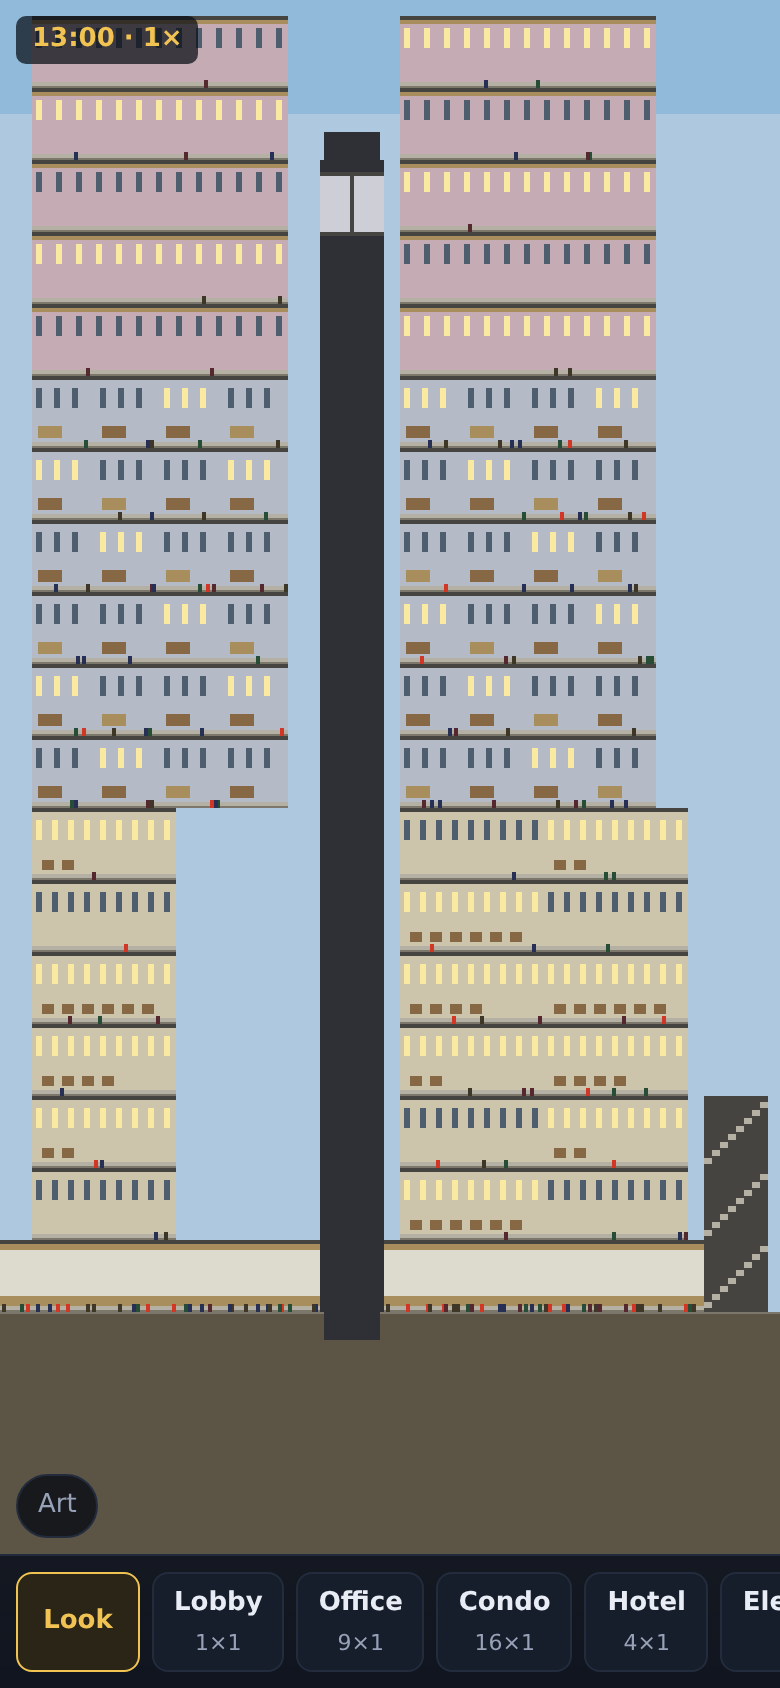
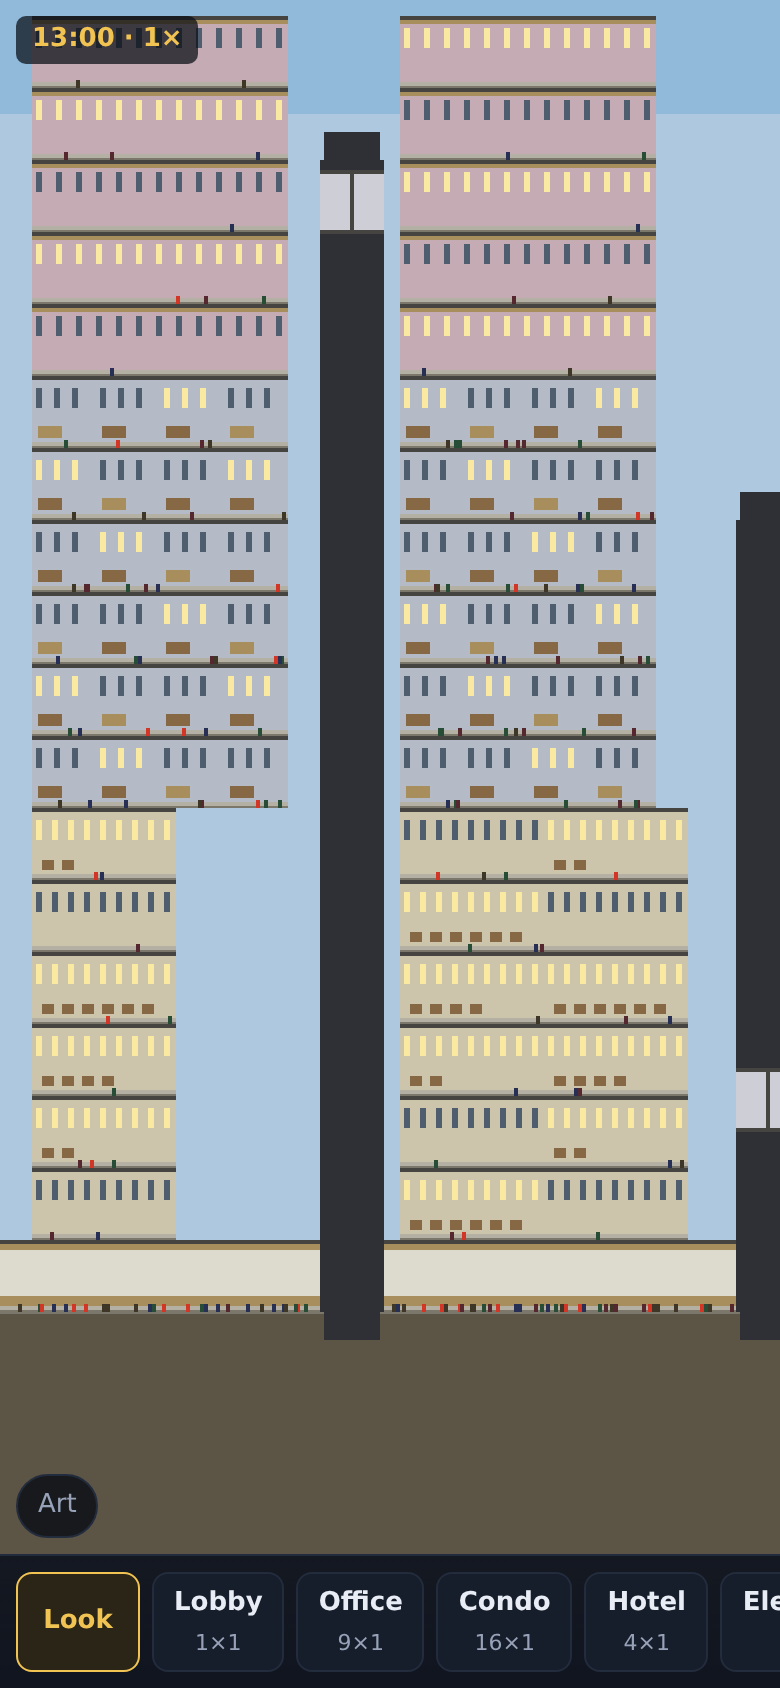
The lobby was never the lobby — it is the city
0x89e8 sits in the documented lobby range, so it was mapped as the
lobby. Looking at it settles the matter: 140 cells of street-level
buildings, brick frontages, trees, a park and a flag. It is the panorama
SimTower draws along the ground on either side of the tower, which is
exactly why our ground floor rendered as a parade of shopfronts.

So it becomes the skyline, drawn behind the tower and indexed by
position so the panorama runs across rather than one building repeating.
The placeholder art gets a generated town too — eight building heights
cycled — so both modes stand the tower in a street instead of on bare
ground.

The demo tower's frontage narrows to 70 of the 96 segments to suit. A
lobby stretched across every segment paves over the streetscape it is
supposed to stand in, which is what was hiding the town even after it
was being drawn.

Stairs and escalators are confirmed by eye and both gain transparency:
seven 64x24 frames of a tan diagonal flight with figures climbing, and
eight 64x36 frames with a red handrail and riders. Eight segments each,
as the arithmetic suggested.

The real lobby is still unidentified — 0x8a28 and 0x8a68 are the next
candidates — so the ground floor draws as a plain band rather than as
the wrong art. That band now uses the atlas's own dark index; INK.wall
is a placeholder-palette number and means nothing under the game's.

Claude-Session: https://claude.ai/code/session_011ej4SEqe3EDyyAxnu4d6fi

diff --git a/vertical-empire/src/render/scene.ts b/vertical-empire/src/render/scene.ts
@@ -71,6 +71,7 @@ function drawBackdrop(target: Framebuffer, atlas: Atlas, camera: Camera, groundY
   }
 
   const horizon = Math.round(groundY - camera.y);
+  drawSkyline(target, atlas, camera, groundY);
   if (horizon >= target.height) return;
 
   const top = Math.max(0, horizon);
@@ -83,6 +84,35 @@ function drawBackdrop(target: Framebuffer, atlas: Atlas, camera: Camera, groundY
   // One line where the tower meets the ground, drawn once rather than by every
   // tile — a lip inside the tile would stripe the whole basement.
   if (horizon >= 0) target.fillRect(0, horizon, target.width, 1, INK.slabLip);
+}
+
+/**
+ * The city at street level.
+ *
+ * SimTower stands its tower in a town: a long panorama of low buildings, brick
+ * frontages, trees and a park runs along the ground on either side. It is
+ * stored as a strip of 8px cells, so a segment of it is drawn per segment of
+ * the lot, indexed by position — the panorama runs across rather than the same
+ * building repeating.
+ *
+ * Drawn before the tower, so anything built stands in front of it.
+ */
+function drawSkyline(target: Framebuffer, atlas: Atlas, camera: Camera, groundY: number): void {
+  const skyline = atlas.sprites.get('skyline');
+  const count = skyline?.frames.length ?? 0;
+  if (!skyline || count === 0) return;
+
+  const height = skyline.frames[0]?.height ?? 0;
+  const y = Math.round(groundY - camera.y) - height;
+  if (y > target.height || y + height < 0) return;
+
+  const first = Math.floor(camera.x / SEGMENT_WIDTH);
+  const last = Math.ceil((camera.x + camera.viewWidth) / SEGMENT_WIDTH);
+  for (let segment = first; segment <= last; segment += 1) {
+    const image = skyline.frames[((segment % count) + count) % count];
+    if (!image) continue;
+    target.blit(image, Math.round(segment * SEGMENT_WIDTH - camera.x), y, skyline.transparent);
+  }
 }
 
 function drawPlacements(target: Framebuffer, atlas: Atlas, tower: Tower, camera: Camera): void {
@@ -118,9 +148,11 @@ function drawPlacements(target: Framebuffer, atlas: Atlas, tower: Tower, camera:
           target.repeatRow(x, y + found.image.height - 1, width, FLOOR_HEIGHT - found.image.height);
         }
       } else {
-        // An atlas missing this key still gets a solid block, so a mis-mapped
-        // resource shows up as a wrong-looking tower rather than an empty one.
-        target.fillRect(x, y, kind.width * SEGMENT_WIDTH, FLOOR_HEIGHT, INK.wall);
+        // A key the atlas does not have still gets a solid band, so an
+        // unidentified facility reads as built rather than as a hole. Drawn in
+        // the atlas's own dark index: INK.wall is a fallback-palette number and
+        // means nothing under the game's palette.
+        target.fillRect(x, y, kind.width * SEGMENT_WIDTH, FLOOR_HEIGHT, atlas.shaftInk);
       }
     }
   }

diff --git a/vertical-empire/src/assets/slice.ts b/vertical-empire/src/assets/slice.ts
@@ -102,9 +102,16 @@ export const CATALOGUE: readonly SpriteSpec[] = [
   // grid, which it is.
   { key: 'sky', type: TYPE_BITMAP, ids: range(0x8351, 0x835b), mode: 'dib' },
 
-  // Lobby, in three variants: ground, sky lobby, and the high one. Cells are 32
-  // tall rather than a full floor — see `ROOM_HEIGHT`.
-  { key: 'lobby', type: TYPE_CELLS, ids: range(0x89e8, 0x89ea), mode: 'cells', cellHeight: 32, cellFrames: true },
+  // Not the lobby, as first assumed — this is the city. A hundred and forty
+  // 8x32 cells of street-level buildings, brick frontages, trees, a park and a
+  // flag: the panorama SimTower draws along the ground on either side of the
+  // tower. Mapping it to the lobby is what made the ground floor look like a
+  // parade of shopfronts, because that is exactly what it is.
+  { key: 'skyline', type: TYPE_CELLS, ids: range(0x89e8, 0x89ea), mode: 'cells', cellHeight: 32, cellFrames: true },
+
+  // The lobby itself is still unidentified. The other two cell-strip groups
+  // (0x8a28, 0x8a68) are the next candidates. Until then the ground floor draws
+  // as a plain band rather than as the wrong art.
 
   // 288x24 = four states of nine segments. Occupancy runs across: empty, then
   // progressively tenanted.
@@ -137,10 +144,11 @@ export const CATALOGUE: readonly SpriteSpec[] = [
 
   // Both of these were in the catalogue at the right IDs but as cell strips.
   // They are ordinary bitmaps, which is why they came back "not found".
-  // UNVERIFIED: the eight-segment width is inferred from the state count
-  // dividing cleanly, not from the documentation.
-  { key: 'stairs', type: TYPE_BITMAP, ids: [0x8968, 0x8969], mode: 'dib', states: 7 },
-  { key: 'escalator', type: TYPE_BITMAP, ids: [0x8aa8, 0x8ae8], mode: 'dib', states: 8 },
+  // Both confirmed by eye. Stairs: seven 64x24 frames of a tan diagonal flight,
+  // some with figures climbing. Escalator: eight 64x36 frames, red handrail,
+  // riders on some. Eight segments each, as the arithmetic suggested.
+  { key: 'stairs', type: TYPE_BITMAP, ids: [0x8968, 0x8969], mode: 'dib', states: 7, transparent: 'corner' },
+  { key: 'escalator', type: TYPE_BITMAP, ids: [0x8aa8, 0x8ae8], mode: 'dib', states: 8, transparent: 'corner' },
 
   // Nine figures across a 96x24 sheet, and — this is the part a grid cannot
   // express — they are six different widths, from five pixels to eleven, with

diff --git a/vertical-empire/src/assets/fallback.ts b/vertical-empire/src/assets/fallback.ts
@@ -52,6 +52,9 @@ export const INK = {
   personC: 19,
   personD: 20,
   personAngry: 21,
+  townWall: 26,
+  townRoof: 27,
+  townWindow: 28,
   indicatorA: 197,
   indicatorB: 198,
 } as const;
@@ -83,6 +86,9 @@ const DAY: Record<number, [number, number, number]> = {
   [INK.personC]: [40, 80, 56],
   [INK.personD]: [64, 56, 40],
   [INK.personAngry]: [220, 56, 40],
+  [INK.townWall]: [104, 112, 128],
+  [INK.townRoof]: [72, 78, 92],
+  [INK.townWindow]: [196, 206, 176],
   [INK.indicatorA]: [248, 200, 64],
   [INK.indicatorB]: [80, 60, 24],
 };
@@ -254,6 +260,27 @@ function stairs(): IndexedImage {
   return image;
 }
 
+/**
+ * One 8px slice of the town the tower stands in.
+ *
+ * The original ships a hundred and forty of these as a panorama; ours is eight
+ * heights cycled, which is enough to read as a street rather than a wall. Cells
+ * are 32 tall and sit on the ground line.
+ */
+function town(step: number): IndexedImage {
+  const height = 32;
+  const image = blank(SEGMENT_WIDTH, height, INK.transparent);
+  // A repeating but not-quite-regular skyline: eight steps that do not divide
+  // evenly into the lot, so the pattern does not visibly tile.
+  const roof = 6 + ((step * 5) % 18);
+  fill(image, 0, roof, SEGMENT_WIDTH, height - roof, INK.townWall);
+  fill(image, 0, roof, SEGMENT_WIDTH, 1, INK.townRoof);
+  for (let y = roof + 3; y < height - 3; y += 5) {
+    fill(image, 2, y, 4, 2, INK.townWindow);
+  }
+  return image;
+}
+
 function person(tint: number): IndexedImage {
   const image = blank(2, 4, INK.transparent);
   fill(image, 0, 0, 2, 4, tint);
@@ -295,6 +322,11 @@ export function buildFallbackAtlas(): Atlas {
       ],
       INK.transparent,
     ),
+  );
+
+  sprites.set(
+    'skyline',
+    sprite('skyline', [0, 1, 2, 3, 4, 5, 6, 7].map(town), INK.transparent),
   );
 
   const skyPalettes = buildSkyPalettes();

diff --git a/vertical-empire/tests/assets.test.ts b/vertical-empire/tests/assets.test.ts
@@ -272,17 +272,17 @@ describe('drawing from a real-shaped file', () => {
     );
   }
 
-  it('cuts a lobby strip into single-segment frames', async () => {
+  it('cuts the town strip into single-segment frames', async () => {
     const { buildOriginalAtlas } = await import('../src/assets/original.js');
-    const lobby = buildOriginalAtlas(mimic()).atlas.sprites.get('lobby');
+    const skyline = buildOriginalAtlas(mimic()).atlas.sprites.get('skyline');
 
     // Three resources of 140 cells each. Drawn whole at a one-segment
     // placement, a 1120px strip smears across the entire ground floor.
-    expect(lobby?.frames).toHaveLength(3 * 140);
-    expect(lobby?.frames[0]?.width).toBe(SEGMENT_WIDTH);
-    expect(lobby?.frames[0]?.height).toBe(32);
-    // Consecutive frames are consecutive cells, so a lobby reads as a frontage.
-    expect(lobby?.frames[1]?.pixels[0]).toBe(2);
+    expect(skyline?.frames).toHaveLength(3 * 140);
+    expect(skyline?.frames[0]?.width).toBe(SEGMENT_WIDTH);
+    expect(skyline?.frames[0]?.height).toBe(32);
+    // Consecutive frames are consecutive cells, so the panorama runs across.
+    expect(skyline?.frames[1]?.pixels[0]).toBe(2);
   });
 
   it('takes the see-through index from the sprite rather than assuming zero', async () => {
@@ -299,7 +299,7 @@ describe('drawing from a real-shaped file', () => {
     // Only the entries this fixture leaves out should be missing.
     const missing = problems.map((problem) => problem.key).sort();
     expect(missing).not.toContain('office');
-    expect(missing).not.toContain('lobby');
+    expect(missing).not.toContain('skyline');
     expect(atlas.skyPalettes.length).toBeGreaterThan(1);
   });
 });

diff --git a/vertical-empire/tests/render.test.ts b/vertical-empire/tests/render.test.ts
@@ -256,3 +256,42 @@ describe('lift banks', () => {
     expect(SKY.has(buffer.pixels[above * buffer.width + x] ?? 0)).toBe(false);
   });
 });
+
+describe('the town', () => {
+  it('stands the tower in a street rather than on bare ground', () => {
+    const atlas = buildFallbackAtlas();
+    const camera = new Camera();
+    camera.resize(390, 780);
+    // Looking at the ground line beyond the tower's frontage, where the
+    // street is what there is to see.
+    camera.scale = 1;
+    camera.resize(390, 780);
+    camera.centreOn(SEGMENT_WIDTH * 92, levelTop(GROUND_LEVEL));
+
+    const buffer = new Framebuffer(camera.viewWidth, camera.viewHeight);
+    drawScene(buffer, atlas, demoTower(), camera, { hour: 12, elapsed: 0 });
+
+    const ink = new Set(buffer.pixels);
+    expect(ink.has(INK.townWall)).toBe(true);
+    expect(ink.has(INK.townWindow)).toBe(true);
+  });
+
+  it('keeps the town behind anything built', () => {
+    const atlas = buildFallbackAtlas();
+    const tower = new Tower();
+    // An office right where the town would otherwise show.
+    tower.place('office', 40, GROUND_LEVEL);
+
+    const camera = new Camera();
+    camera.resize(390, 780);
+    camera.centreOn(SEGMENT_WIDTH * 44, levelTop(GROUND_LEVEL) + FLOOR_HEIGHT / 2);
+
+    const buffer = new Framebuffer(camera.viewWidth, camera.viewHeight);
+    drawScene(buffer, atlas, tower, camera, { hour: 12, elapsed: 0 });
+
+    // Mid-office, the office floor wins over the town behind it.
+    const x = Math.round(44 * SEGMENT_WIDTH - camera.x);
+    const y = Math.round(levelTop(GROUND_LEVEL) + 10 - camera.y);
+    expect(buffer.pixels[y * buffer.width + x]).not.toBe(INK.townWall);
+  });
+});

diff --git a/vertical-empire/src/world/tower.ts b/vertical-empire/src/world/tower.ts
@@ -101,6 +101,9 @@ export class Tower {
  * simulated — the point is a screenshot that answers "does this read as
  * SimTower", and an empty lot answers nothing.
  */
+/** How much of the block the demo tower occupies, leaving the rest as street. */
+const FRONTAGE = 70;
+
 export function demoTower(): Tower {
   const tower = new Tower();
   const ground = 9; // level index of floor 1
@@ -109,10 +112,13 @@ export function demoTower(): Tower {
   // sitting beside it, so they have to claim their segments before the lobby
   // fills in around them.
   tower.place('elevator', 20, ground, 16);
-  tower.place('elevator', 52, ground, 11);
+  tower.place('elevator', 46, ground, 11);
   tower.place('stairs', 44, ground, 3);
 
-  for (let segment = 0; segment < LOT_SEGMENTS; segment += 1) {
+  // The lobby spans the tower's own frontage, not the whole block. SimTower
+  // stands its tower in a town, and a lobby stretched across every segment
+  // paves over the streetscape either side of it.
+  for (let segment = 0; segment < FRONTAGE; segment += 1) {
     tower.place('lobby', segment, ground);
   }
 
@@ -122,7 +128,7 @@ export function demoTower(): Tower {
   const wings: [number, number][] = [
     [2, 18],
     [25, 43],
-    [57, 92],
+    [50, 68],
   ];
 
   for (let level = ground + 1; level <= ground + 6; level += 1) {

diff --git a/vertical-empire/scripts/verify-ui.ts b/vertical-empire/scripts/verify-ui.ts
@@ -96,6 +96,18 @@ async function main(): Promise<void> {
         await page.screenshot({ path: `${OUT}/phone-${scale}x.png` });
       }
 
+      // Panned to the edge of the block, where the tower stops and the street
+      // the original stands it in is what there is to see.
+      await page.goto(`${URL}?hour=13`, { waitUntil: 'networkidle' });
+      await page.waitForTimeout(400);
+      await page.click('.art-collapse');
+      await page.mouse.move(300, 400);
+      await page.mouse.down();
+      await page.mouse.move(40, 400, { steps: 8 });
+      await page.mouse.up();
+      await page.waitForTimeout(200);
+      await page.screenshot({ path: `${OUT}/phone-street.png` });
+
       // Placing something, so the build bar and its feedback are in a shot.
       await page.click('button[data-tool="build:office"]');
       await page.mouse.click(195, 420);

diff --git a/vertical-empire/README.md b/vertical-empire/README.md
@@ -78,6 +78,23 @@ The IDs themselves mostly held up, and the arithmetic is what confirms them: a
 condo is 128 wide, which is sixteen segments; a hotel suite sheet is 640, which
 is eight states of ten segments; a lift car is 32×36, exactly as documented.
 
+### The lobby was never the lobby
+
+`0x89e8` — 140 cells of 8×32, mapped as the lobby on the strength of its ID
+sitting in the documented lobby range — is the **city**. Street-level buildings,
+brick frontages, trees, a park, a flag: the panorama SimTower draws along the
+ground on either side of the tower. That is why the ground floor rendered as a
+parade of shopfronts. It is one now, deliberately, drawn behind the tower and
+indexed by position so the panorama runs across rather than repeating.
+
+The real lobby is still unidentified; the other two cell-strip groups
+(`0x8a28`, `0x8a68`) are the next candidates. Until then the ground floor draws
+as a plain band rather than as the wrong art.
+
+The demo tower's frontage was narrowed to 70 of the 96 segments to suit: a lobby
+stretched across every segment paves over the streetscape it is supposed to
+stand in.
+
 ### What the measurements settled
 
 - **The lift car is `0x842a`**, five 32×36 frames, each the car interior holding
@@ -87,6 +104,10 @@ is eight states of ten segments; a lift car is 32×36, exactly as documented.
 - **`0x8468` is not a car or a shaft.** Thirty-five ink runs of 20px figures
   across a 640px sheet: clumps of people, most likely the queues that gather by
   the lift doors.
+- **Stairs and escalators confirmed by eye.** Stairs: seven 64×24 frames of a
+  tan diagonal flight, figures climbing some. Escalator: eight 64×36 frames with
+  a red handrail and riders. Eight segments each, as the arithmetic suggested,
+  and both need their corner index treated as see-through.
 - **People cannot be cut on a grid.** The 96×24 sheet holds *nine* figures at
   *six different widths*, from five pixels to eleven, the last few being clumps
   of two or three rather than one. Twelve equal columns sliced them apart. The
